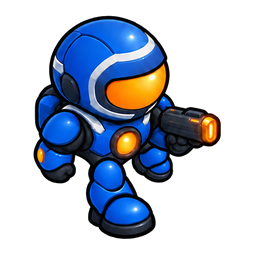
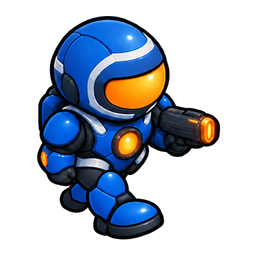
Prepare SE and SW proportion candidates for motion comparison

Changed region(s): [[0.125, 0.0625, 0.875, 0.9375]]

diff --git a/docs/art-review/pilot-walk-diagonals/proportion-revision.md b/docs/art-review/pilot-walk-diagonals/proportion-revision.md
@@ -1,0 +1,9 @@
+# SE/SW proportion candidates — October 24
+
+Review branch only; not accepted for gameplay. Rebuilt using built-in image generation from original pilot_se.png and pilot_sw.png identity references. Prompt: duplicate exact reference upper body across a transparent 2x2 sheet, preserve helmet/torso/weapon proportions and direction, change only legs to left contact/right passing/right contact/left passing with modest strides. First outputs repeated the leading leg; targeted bottom-left edits required the empty-hand-side leg forward and gun-side leg back.
+
+Final source sheets: SE exec-c0c8f52a-0c21-4047-b79e-66489f727a68.png; SW exec-cbed28af-d6f1-4f74-9a3f-57e742ba8489.png. Extracted four 627px cells at common 40% scale per direction, idle helmet top/center registration, alpha below 20 cleaned, 256px RGBA outputs. All eight fit within canvas.
+
+Compared at equal scale against idle. Helmet sizing closer; SW has shorter vertical leg reach than idle and SE passing/contact poses remain similar. Need actual motion review before accepting these as improvements. Existing runtime fixtures unchanged. Northwest correction acc51b9 compiled; focused captures still running when these candidates were saved separately to avoid cancellation.
+
+Next: finish NW review, compare these candidates in simulator, retain existing assets if motion regresses. No TestFlight upload or reset.
